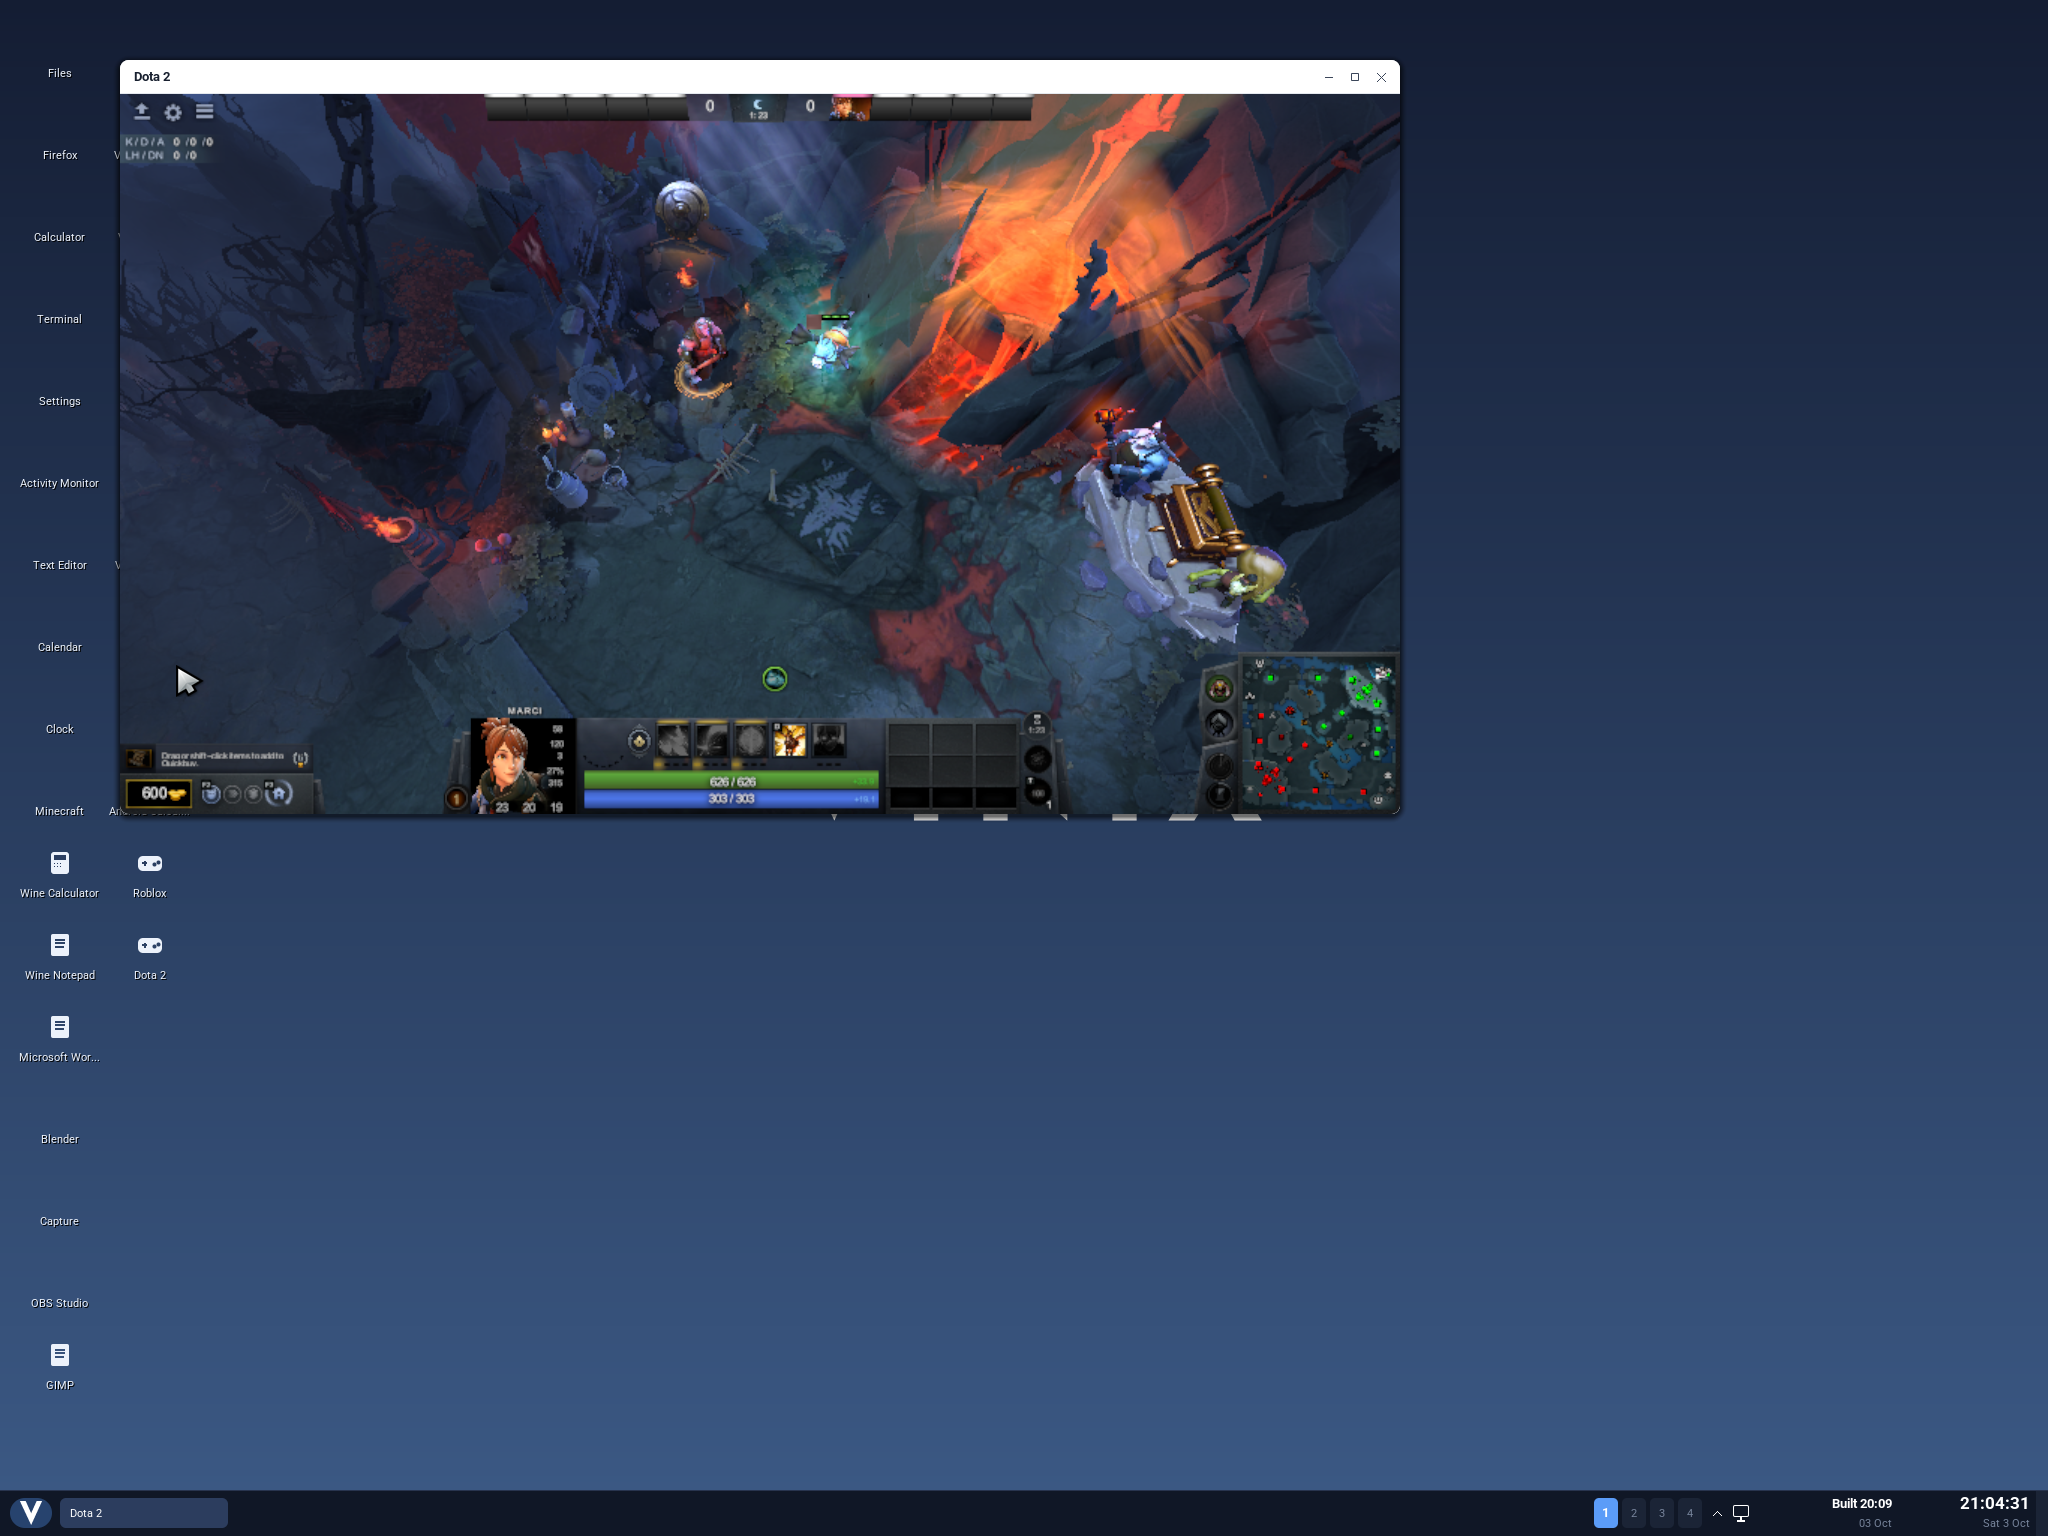
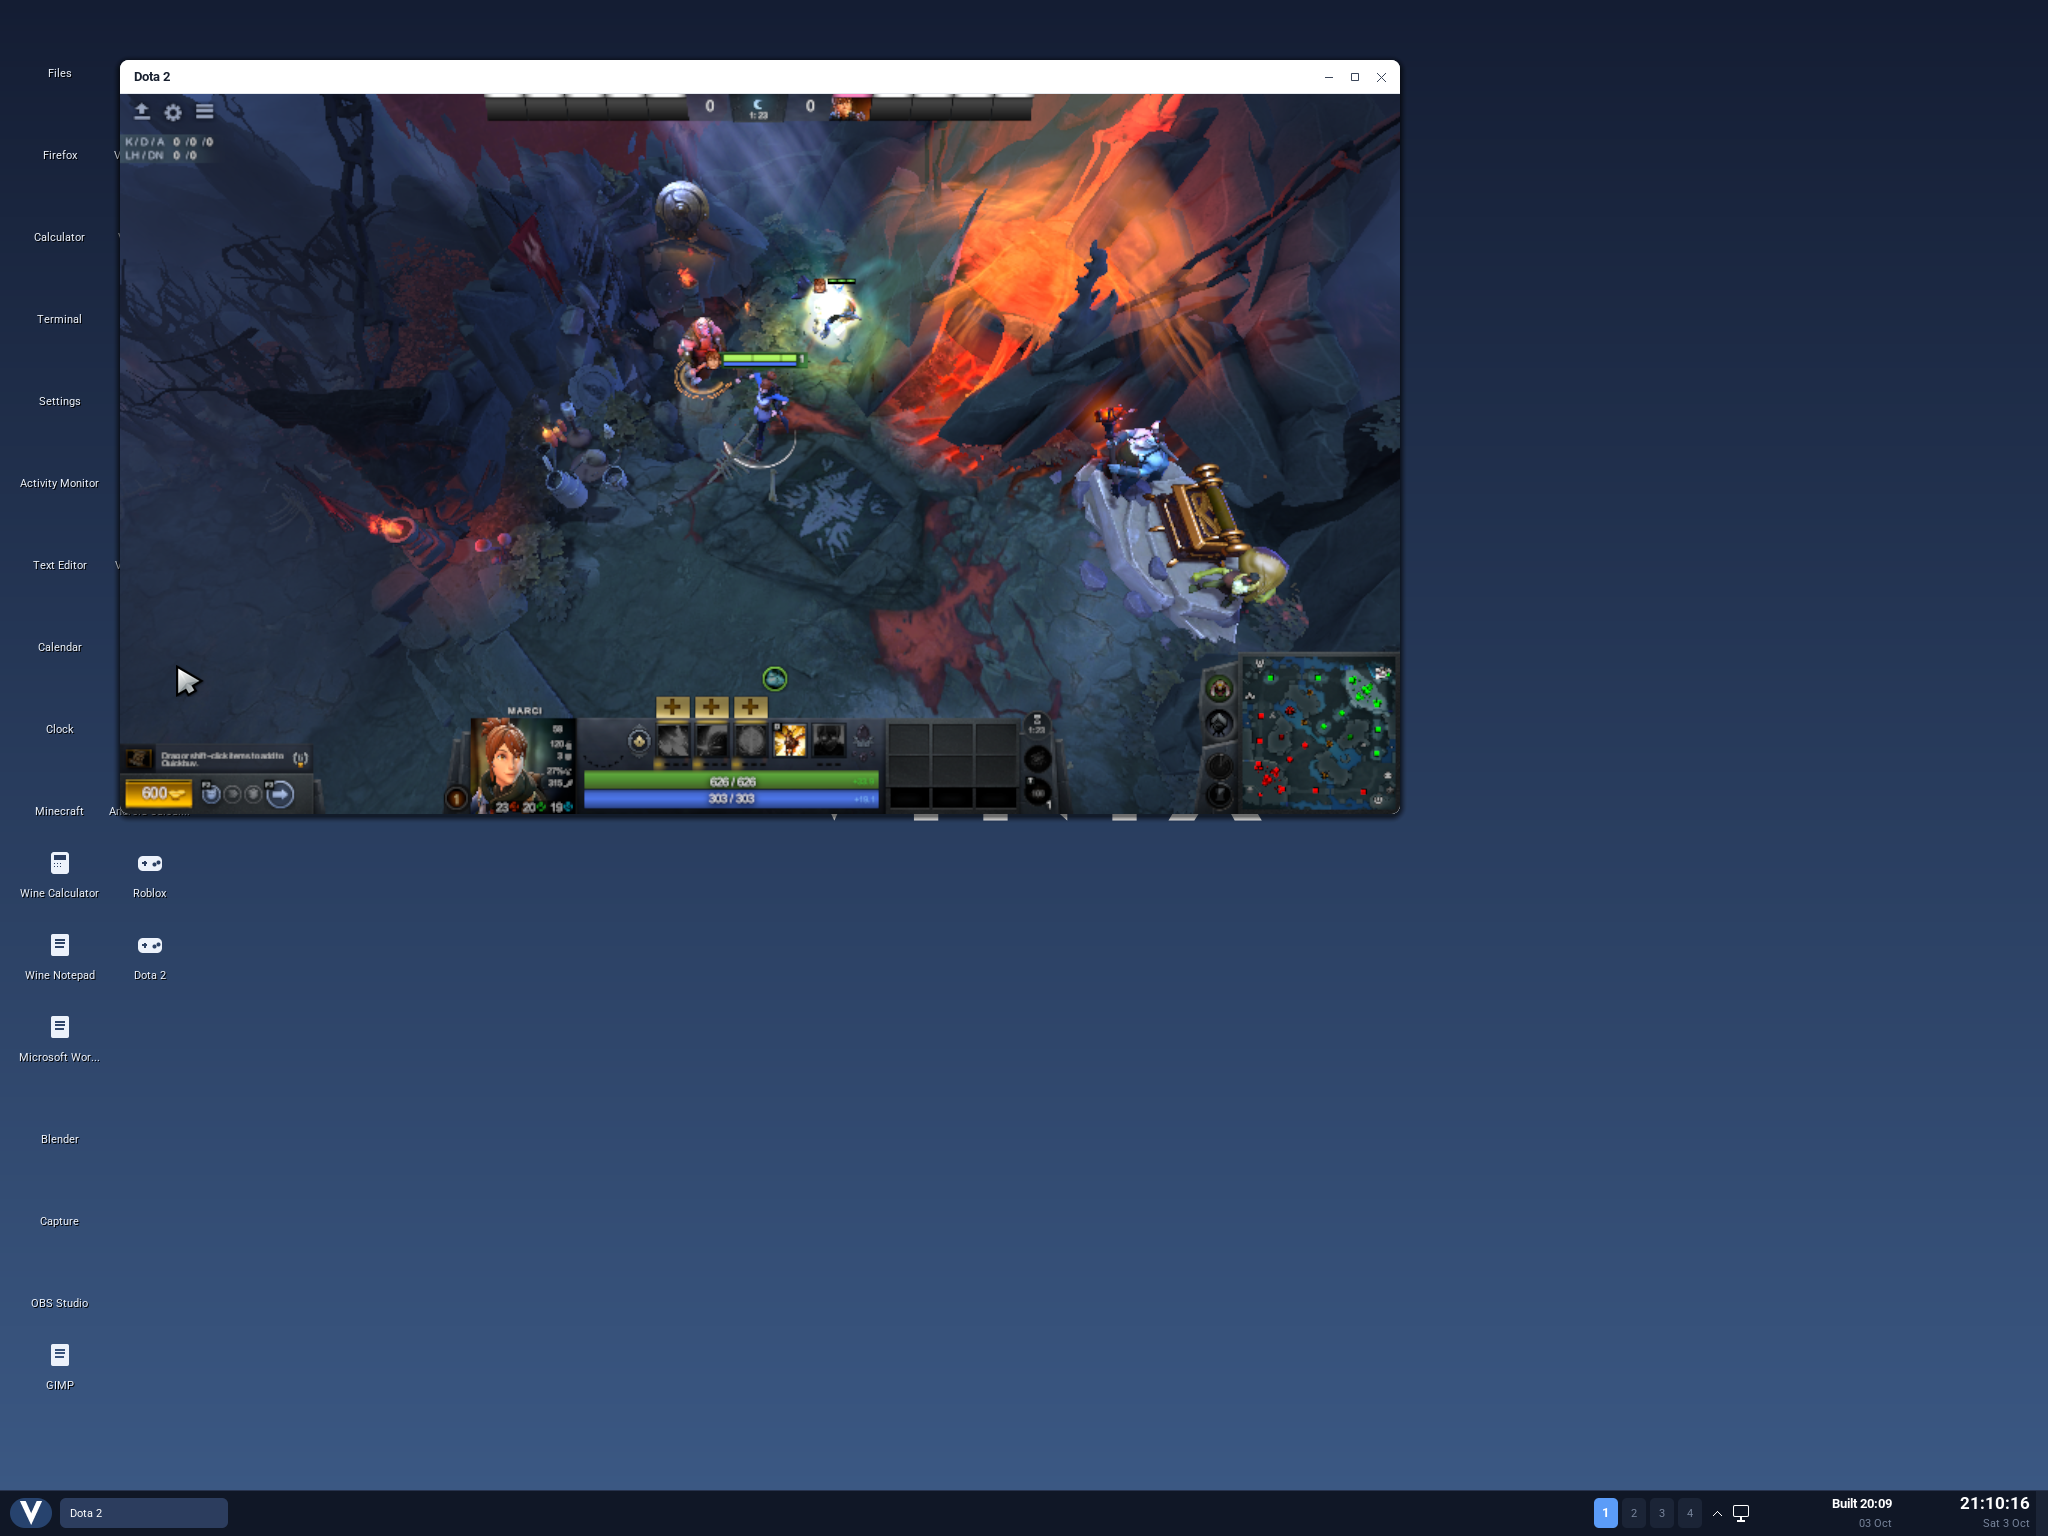
Dota 2: show Marci's model in the hero capture
The previous capture was taken when the HUD first showed the selected
hero, four minutes before her model and health bar were drawn on the
map. Replace it with the run's capture that shows her, and note the
delay.

diff --git a/docs/dota2.md b/docs/dota2.md
@@ -359,11 +359,13 @@ succeeded, and so did SKIP AHEAD in the strategy phase. The crashing function
 updates the team slots that `jointeam` also changes, but that command has not
 been shown to be the cause. About 13 minutes after SKIP AHEAD the client drew
 the Dire base. F1 selected the hero several minutes after it was sent, and the
-HUD then showed Marci with 626 health, 303 mana and 600 gold, as in the
-unedited capture below. The pregame's last 83 seconds of game time took about
-20 minutes. The server then entered `DOTA_GAMERULES_STATE_GAME_IN_PROGRESS`,
-and the hero's gold began to rise. Inputs and captures are under
-`build/dota2/game-software-hero`.
+HUD then showed Marci with 626 health, 303 mana and 600 gold. Her model and
+health bar appeared on the map four minutes after the HUD, so a capture taken
+as soon as the HUD shows the hero has no hero in it. In the unedited capture
+below, she stands under her health bar, next to her courier. The pregame's
+last 83 seconds of game time took about 20 minutes. The server then entered
+`DOTA_GAMERULES_STATE_GAME_IN_PROGRESS`, and the hero's gold began to rise.
+Inputs and captures are under `build/dota2/game-software-hero`.
 
 ![Marci at the Dire base in a local Dota 2 match in a Vinix window](../vinix-dota2-hero-map-qemu.png)
 
